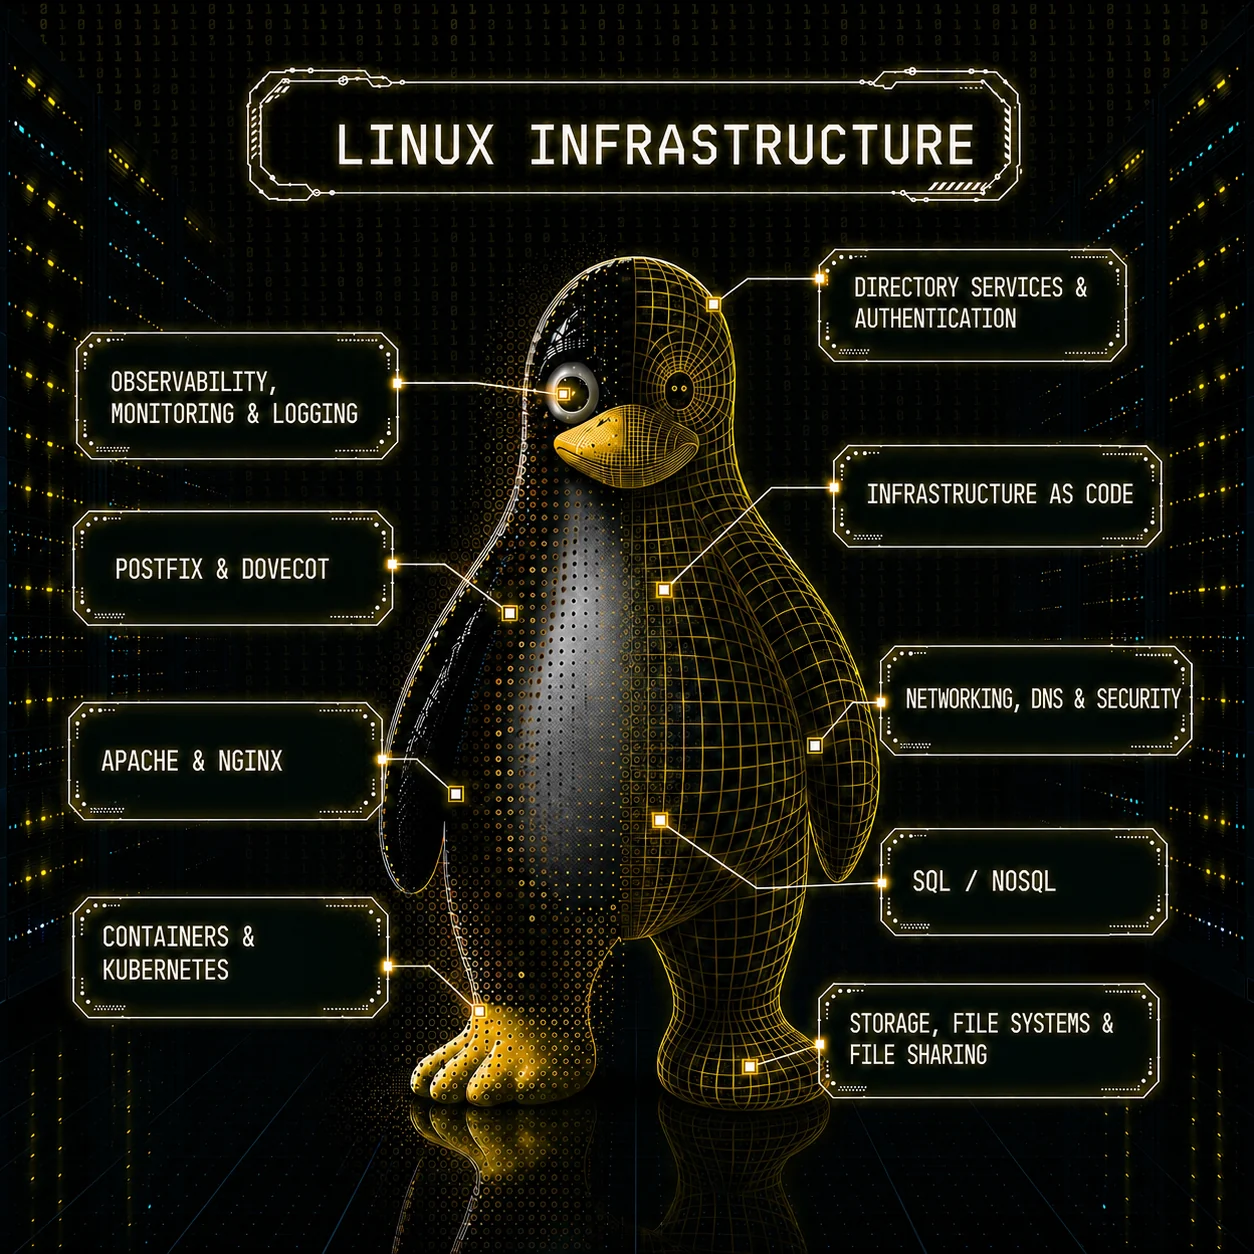
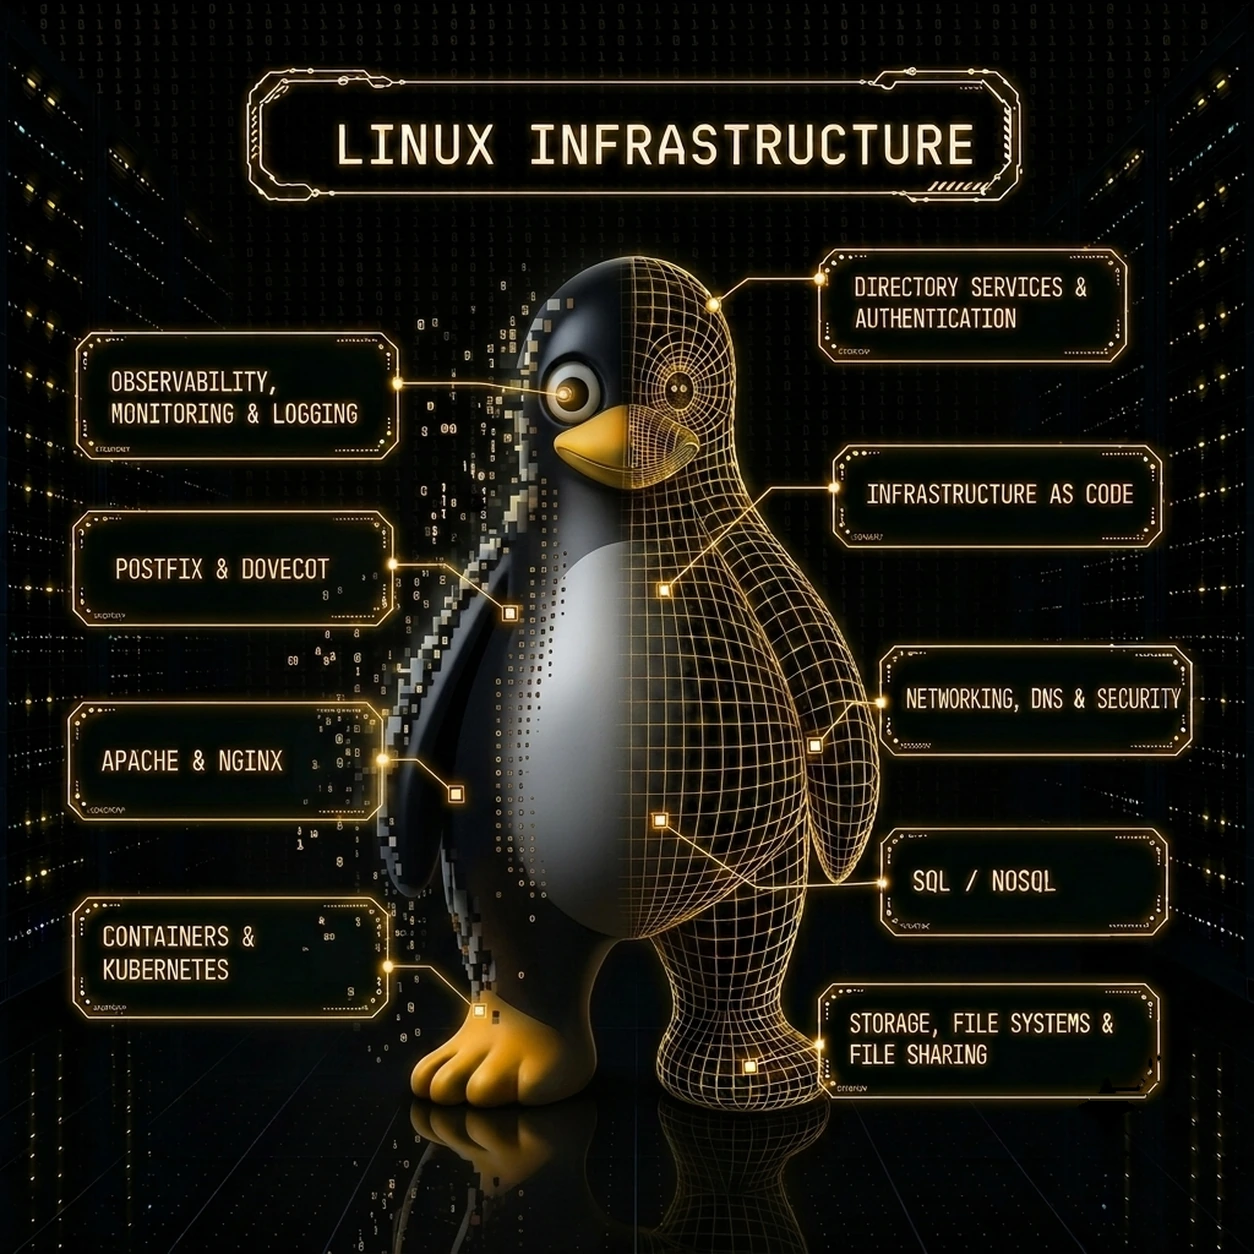
feat(projects): update Linux artwork, retune card brightness, add intro closer
Third artwork revision. 1254x1254, 252 KB, no EXIF, INFRASTRUCTURE AS CODE
corrected. Replaces the render shipped in 04b7dfc.

The card is now deliberately the brightest on the site: 12.7 rest /
36.5 hover against a sibling cluster of 8.6-9.6 and 19.6-21.7. Roughly
1.7 percent of pixels clip at hover versus under 0.5 for every other
card - accepted as a design choice and recorded in the CSS so it is not
later corrected as drift.

Also consolidates a duplicate .card-visual--linux rule that had shadowed
the artwork version and dropped background-position, silently inheriting
center top from the base rule. That inversion only shows between 760 and
1100px, where the card is wide and short and the vertical crop is live.

Author intro gains a closing line about the penguin being concept art.

Artwork ?v=1.4.0 -> 1.5.0 (the file is live and cached, unlike every
previous swap). projects.css 1.5.0 -> 1.5.1, media.js 1.5.0 -> 1.5.1.

diff --git a/assets/js/media.js b/assets/js/media.js
@@ -117,7 +117,9 @@ And yes, despite my first penetration test beginning with an "easy" target, it s
 
     const LINUX_AUTHOR_INTRO = `This Linux Infrastructure engineering space is a growing portfolio hub for platform-engineering projects that rebuild production-adjacent services by hand. The work is designed to expose the request paths, trust boundaries, failure modes, and configuration decisions that control panels normally abstract away, while documenting the reasoning behind each implementation rather than presenting configuration files without context.
 
-Projects are developed in an isolated VMware lab using synthetic hostnames, disposable credentials, and a security-first publication workflow. The first active build focuses on a hand-built nginx, Apache, and PHP-FPM hosting stack, with future projects planned across mail services, automation, container orchestration, observability, identity, networking, storage, and related Linux platform components. As those projects mature, the current representative previews will be replaced with verified configuration, validation output, and sanitized engineering evidence drawn directly from the repositories.`;
+Projects are developed in an isolated VMware lab using synthetic hostnames, disposable credentials, and a security-first publication workflow. The first active build focuses on a hand-built nginx, Apache, and PHP-FPM hosting stack, with future projects planned across mail services, automation, container orchestration, observability, identity, networking, storage, and related Linux platform components. As those projects mature, the current representative previews will be replaced with verified configuration, validation output, and sanitized engineering evidence drawn directly from the repositories.
+
+The penguin is concept art and remains under review. Predict-then-verify has not yet been applied to it.`;
 
     const PROJECTS = {
         cloudflare: {

diff --git a/assets/css/projects.css b/assets/css/projects.css
@@ -340,13 +340,20 @@ body::before {
 }
 /* Linux Infrastructure card artwork */
 .card-visual--linux {
-    background-image: url('../../assets/images/linux-infrastructure-background.webp?v=1.4.0');
+    background-image: url('../../assets/images/linux-infrastructure-background.webp?v=1.5.0');
     background-position: center;
-    /* The amber wireframe fills most of the frame at mid-brightness, so this
-       artwork reads ~18% hotter than the other cards without ever clipping a
-       highlight. Measured: 0.38/0.85 puts it on the cluster mean at both
-       states. Same treatment Sentinel needed, for the same reason. */
-    filter: brightness(0.38) saturate(0.60);
+    /* Deliberately the brightest card on the site. Measured against a sibling
+       cluster of 8.6-9.6 rest / 19.6-21.7 hover, this renders 12.7 / 36.5 -
+       roughly 70% above the group on hover. That is a design choice, not drift.
+       saturate(0.50) pulls more colour than the 0.60 the other cards use, so
+       the amber reads cooler while dormant and snaps warm on activation.
+       Values track the IMAGE, not the card - retune on any artwork swap.
+       Reference points measured on this render:
+         0.32 / 0.71  ->  20.0 hover   cluster mean
+         0.35 / 0.76  ->  21.4 hover   brightest sibling
+         0.45 / 1.30  ->  36.5 hover   current
+         0.55 / 1.50  ->  40.5 hover   heavier highlight clipping */
+    filter: brightness(0.45) saturate(0.50);
 }
 /* Penetration Testing card artwork */
 .card-visual--pentest {
@@ -381,7 +388,7 @@ body::before {
 }
 .active-card:hover .card-visual--linux,
 .active-card:focus-visible .card-visual--linux {
-    filter: brightness(0.85) saturate(1);
+    filter: brightness(1.30) saturate(1);
 }
 .card-visual::before { content: none; }
 .card-visual::after  { content: none; }

diff --git a/projects.html b/projects.html
@@ -14,7 +14,7 @@
     <link rel="preconnect" href="https://fonts.gstatic.com" crossorigin>
     <link href="https://fonts.googleapis.com/css2?family=Rajdhani:wght@400;500;600;700&family=Share+Tech+Mono&display=swap" rel="stylesheet">
     <link rel="stylesheet" href="assets/css/variables.css?v=1.3.0">
-    <link rel="stylesheet" href="assets/css/projects.css?v=1.5.0">
+    <link rel="stylesheet" href="assets/css/projects.css?v=1.5.1">
 </head>
 <body>
 <div class="projects-shell">

diff --git a/media.html b/media.html
@@ -115,6 +115,6 @@
 
 </div>
 
-<script src="assets/js/media.js?v=1.5.0"></script>
+<script src="assets/js/media.js?v=1.5.1"></script>
 </body>
 </html>
